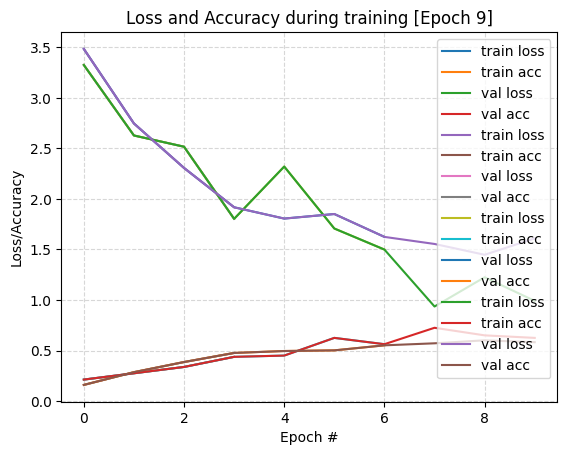
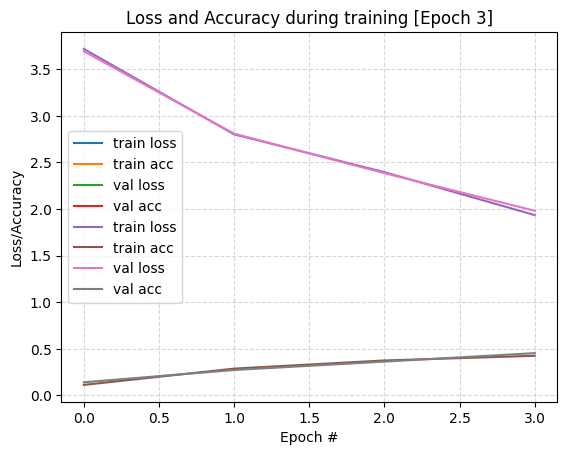
small fix

diff --git a/train.py b/train.py
@@ -74,6 +74,7 @@ def save_plot(tlosses, taccs, vlosses, vaccs, epoch):
     plt.legend()
     plt.grid(alpha=0.5, linestyle='--')
     plt.savefig('output/loss_accuracy_plot', bbox_inches='tight')
+    plt.clf()
 
 
 use_cuda = args.use_cuda and torch.cuda.is_available()
@@ -129,7 +130,7 @@ for epoch in range(n_epochs):
           f'val_loss = {val_loss:.3f} | val_acc = {val_acc:.3f}')
 
     # Save model and plot
-    if epoch % 3 == 0:
+    if epoch % 2 == 0:
         torch.save(model.state_dict(), f'models/model_{args.dataset}_epoch{epoch}.pt')
         save_plot(train_losses, train_accs, val_losses, val_accs, epoch)
 
